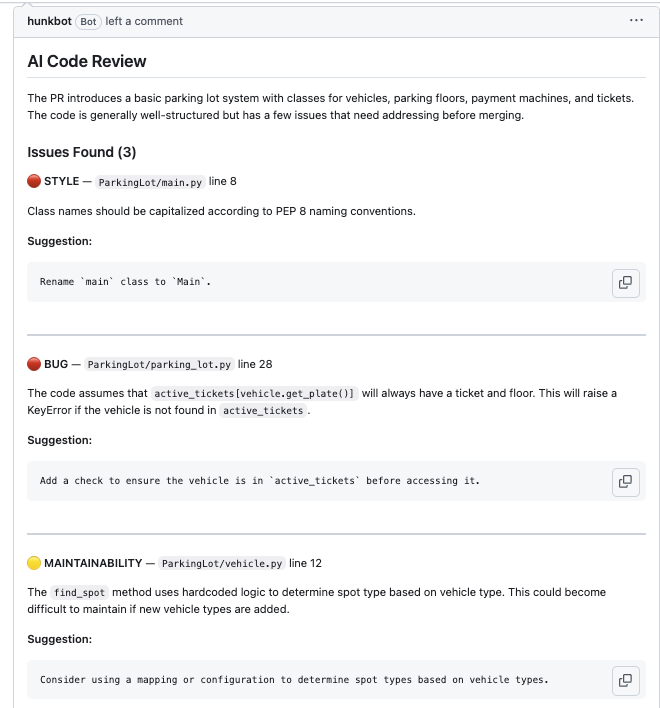
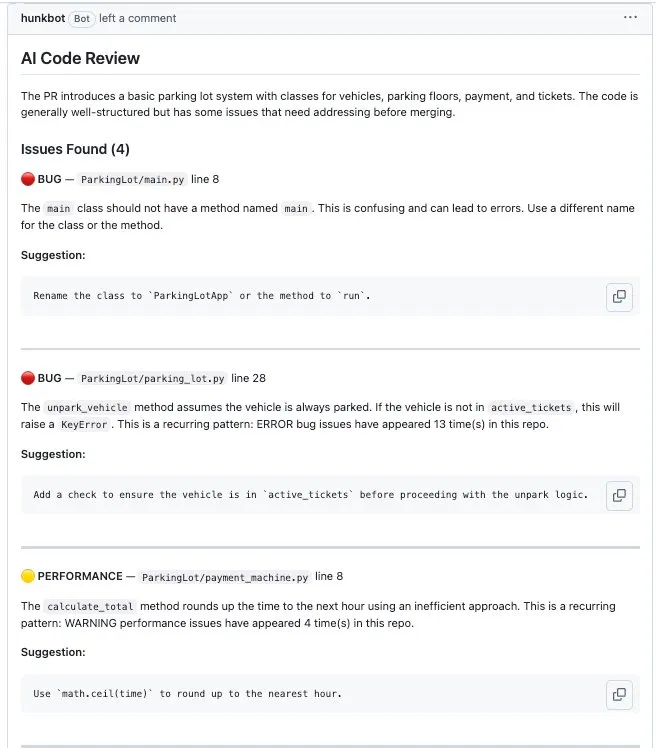
feat: provider-agnostic LLM interface

diff --git a/app/api/webhook.py b/app/api/webhook.py
@@ -56,19 +56,16 @@ async def _handle_pr_event(payload: dict) -> None:
     logger.info(f"Reviewing PR #{pr_number} in {repo_full_name} (action={action})")
 
     try:
-        # 1. Authenticate and fetch PR object
         gh = get_github_client(installation_id)
         repo = gh.get_repo(repo_full_name)
         pr = repo.get_pull(pr_number)
 
-        # 2. Process diff
         ctx = process_pr_files(pr, custom_rules=[])
 
         if not ctx.files:
             logger.info(f"PR #{pr_number}: no reviewable files after filtering, skipping")
             return
 
-        # 3. Fetch historical patterns for this repo
         async with AsyncSessionLocal() as db:
             patterns = await get_repo_patterns(db, repo_full_name)
             if patterns:
@@ -77,17 +74,14 @@ async def _handle_pr_event(payload: dict) -> None:
             else:
                 logger.info(f"No historical patterns found for {repo_full_name}")
 
-        # 4. LLM review with historical context
         result = await review_pr(ctx, historical_patterns=patterns)
         logger.info(
             f"PR #{pr_number}: review complete — "
             f"{len(result.comments)} comments, approved={result.approved}"
         )
 
-        # 5. Post review back to GitHub
         post_review(pr, result)
 
-        # 6. Save results to DB
         async with AsyncSessionLocal() as db:
             await save_review(db, repo_full_name, pr_number, result)
 

diff --git a/app/services/diff_processor.py b/app/services/diff_processor.py
@@ -68,7 +68,6 @@ def process_pr_files(pr: PullRequest, custom_rules: list[str] = []) -> PRContext
     """
     files: list[File] = list(pr.get_files())
 
-    # Warn if too many files — still process up to the limit
     if len(files) > settings.max_files_per_pr:
         files = files[: settings.max_files_per_pr]
 

diff --git a/app/services/review_store.py b/app/services/review_store.py
@@ -22,7 +22,7 @@ async def save_review(db: AsyncSession, repo: str, pr_number: int, result: PRRev
         approved=result.approved,
     )
     db.add(review)
-    await db.flush()  # get review.id without committing
+    await db.flush()
 
     for c in result.comments:
         db.add(ReviewComment(

diff --git a/app/core/config.py b/app/core/config.py
@@ -21,5 +21,9 @@ class Settings(BaseSettings):
 
     database_url: str = ""
 
+    llm_provider: str = "openai"
+    anthropic_api_key: str = ""
+    anthropic_model: str = "claude-sonnet-4-6"
+
 
 settings = Settings()

diff --git a/README.md b/README.md
@@ -1,20 +1,23 @@
 # Hunkbot 🤖
 
-An AI-powered GitHub App that automatically reviews pull requests using GPT-4o. When a PR is opened or updated, Hunkbot analyzes the diff, identifies bugs, security issues, and maintainability problems, and posts a structured review comment directly on the PR.
+An AI-powered GitHub App that automatically reviews pull requests. When a PR is opened or updated, Hunkbot analyzes the diff, identifies bugs, security issues, and maintainability problems, and posts a structured review comment directly on the PR — with memory of past issues in the same repo.
 
 ![Hunkbot in action](docs/demo.gif)
+
+**Live**: [hunkbot-production.up.railway.app/health](https://hunkbot-production.up.railway.app/health)
 
 ---
 
 ## What It Does
 
-Hunkbot caught 3 real issues in a single PR review:
+Hunkbot reviews every PR automatically and learns from past issues in the same repo:
 
-![Hunkbot review showing 3 issues found in a parking lot PR](docs/review-screenshot.png)
+![Hunkbot review showing recurring bug patterns](docs/review-screenshot.png)
 
-- 🔴 **BUG** — `active_tickets[vehicle.get_plate()]` will raise a `KeyError` if the vehicle is not found. Suggested adding a guard check before accessing the dict.
-- 🔴 **STYLE** — Class `main` should be capitalized to `Main` per PEP 8.
-- 🟡 **MAINTAINABILITY** — `find_spot()` uses hardcoded logic; suggested a mapping-based approach to support new vehicle types without modifying core logic.
+After multiple PRs, Hunkbot surfaces recurring patterns:
+- 🔴 **BUG** — `main` class should not have a method named `main`; confusing and can lead to errors.
+- 🔴 **BUG** — `unpark_vehicle` assumes the vehicle is always parked; will raise a `KeyError`. **Recurring pattern: ERROR bug issues have appeared 13 time(s) in this repo.**
+- 🟡 **PERFORMANCE** — `calculate_total` rounds up inefficiently. **Recurring pattern: WARNING performance issues have appeared 4 time(s) in this repo.**
 
 ---
 
@@ -24,8 +27,9 @@ Hunkbot caught 3 real issues in a single PR review:
 
 1. GitHub sends a signed webhook event when a PR is opened or updated
 2. The diff is filtered (lock files, build artifacts, deleted files removed) and truncated to stay within token limits
-3. GPT-4o reviews the diff and returns a validated JSON response with severity, category, file, line, and fix suggestion for each issue
-4. Hunkbot posts the structured review back to the PR
+3. Historical bug patterns for the repo are queried from PostgreSQL and injected into the LLM prompt
+4. The LLM reviews the diff and returns a validated JSON response with severity, category, file, line, and fix suggestion for each issue
+5. Hunkbot posts the structured review back to the PR and persists the results to the database
 
 ---
 
@@ -34,9 +38,10 @@ Hunkbot caught 3 real issues in a single PR review:
 | Layer | Technology |
 |-------|-----------|
 | Web framework | FastAPI + Uvicorn |
-| LLM | GPT-4o (OpenAI structured outputs) |
+| LLM | GPT-4o / Claude — provider-agnostic interface |
 | GitHub integration | PyGithub + GitHub App JWT auth |
 | Data validation | Pydantic v2 |
+| Database | PostgreSQL + SQLAlchemy async |
 | Containerization | Docker |
 | Deployment | Railway (auto-redeploy on push) |
 | Language | Python 3.12 |
@@ -45,11 +50,13 @@ Hunkbot caught 3 real issues in a single PR review:
 
 ## Features
 
+- **Retrieval-augmented review** — queries per-repo historical bug patterns from PostgreSQL and injects them into LLM context, enabling recurring issue detection across PRs
+- **Provider-agnostic LLM interface** — supports OpenAI and Anthropic via a unified abstraction layer; switchable via `LLM_PROVIDER` environment variable
 - **Structured reviews** — every comment includes severity (`error` / `warning` / `suggestion`), category (`bug` / `security` / `performance` / `style` / `maintainability`), file path, line number, and a concrete fix suggestion
 - **Smart filtering** — skips lock files, build artifacts, auto-generated code, and deleted files
 - **Token-aware** — truncates large diffs to stay within LLM context limits; configurable per-file line limit
 - **Async processing** — webhook returns 200 immediately; review runs in background so GitHub never retries due to timeout
-- **Secure** — HMAC-SHA256 webhook signature verification; GitHub App JWT authentication with short-lived installation tokens (no long-lived OAuth tokens)
+- **Secure** — HMAC-SHA256 webhook signature verification; GitHub App JWT authentication with short-lived installation tokens
 - **Dockerized** — consistent environment across local dev and production; base64-encoded private key support for secret management in cloud environments
 
 ---
@@ -59,8 +66,9 @@ Hunkbot caught 3 real issues in a single PR review:
 ### Prerequisites
 - Python 3.12
 - Docker
+- PostgreSQL (or use Railway's hosted instance)
 - A GitHub App ([create one here](https://github.com/settings/apps/new))
-- OpenAI API key
+- OpenAI or Anthropic API key
 
 ### Setup
 
@@ -74,7 +82,7 @@ pip install -r requirements.txt
 
 # Configure
 cp .env.example .env
-# Fill in GITHUB_APP_ID, GITHUB_WEBHOOK_SECRET, OPENAI_API_KEY
+# Fill in GITHUB_APP_ID, GITHUB_WEBHOOK_SECRET, OPENAI_API_KEY, DATABASE_URL
 # Place your GitHub App private key at ./private-key.pem
 
 # Run locally
@@ -89,6 +97,14 @@ ngrok http 8000
 ```bash
 docker build -t hunkbot .
 docker run -p 8080:8080 --env-file .env hunkbot
+```
+
+### Switch LLM Provider
+
+```bash
+# Use Anthropic instead of OpenAI
+LLM_PROVIDER=anthropic
+ANTHROPIC_API_KEY=sk-ant-...
 ```
 
 ### Run Tests
@@ -109,10 +125,14 @@ Hunkbot/
 │   │   └── webhook.py           # POST /github/webhook
 │   ├── core/
 │   │   ├── config.py            # Settings (pydantic-settings)
-│   │   └── models.py            # Pydantic models (PRReviewResult, ReviewComment)
+│   │   ├── database.py          # SQLAlchemy async engine + session
+│   │   ├── models.py            # Pydantic models (PRReviewResult, ReviewComment)
+│   │   └── models_db.py         # SQLAlchemy ORM models (Review, ReviewComment)
 │   └── services/
 │       ├── diff_processor.py    # Parse, filter, and truncate PR diffs
-│       ├── llm_reviewer.py      # GPT-4o structured output review
+│       ├── llm_providers.py     # Provider-agnostic LLM interface
+│       ├── llm_reviewer.py      # Prompt builder + review orchestration
+│       ├── review_store.py      # Persist and query review history
 │       └── github_service.py    # GitHub App JWT auth + post review
 └── tests/
     └── test_diff_processor.py   # Unit tests for diff processing logic
